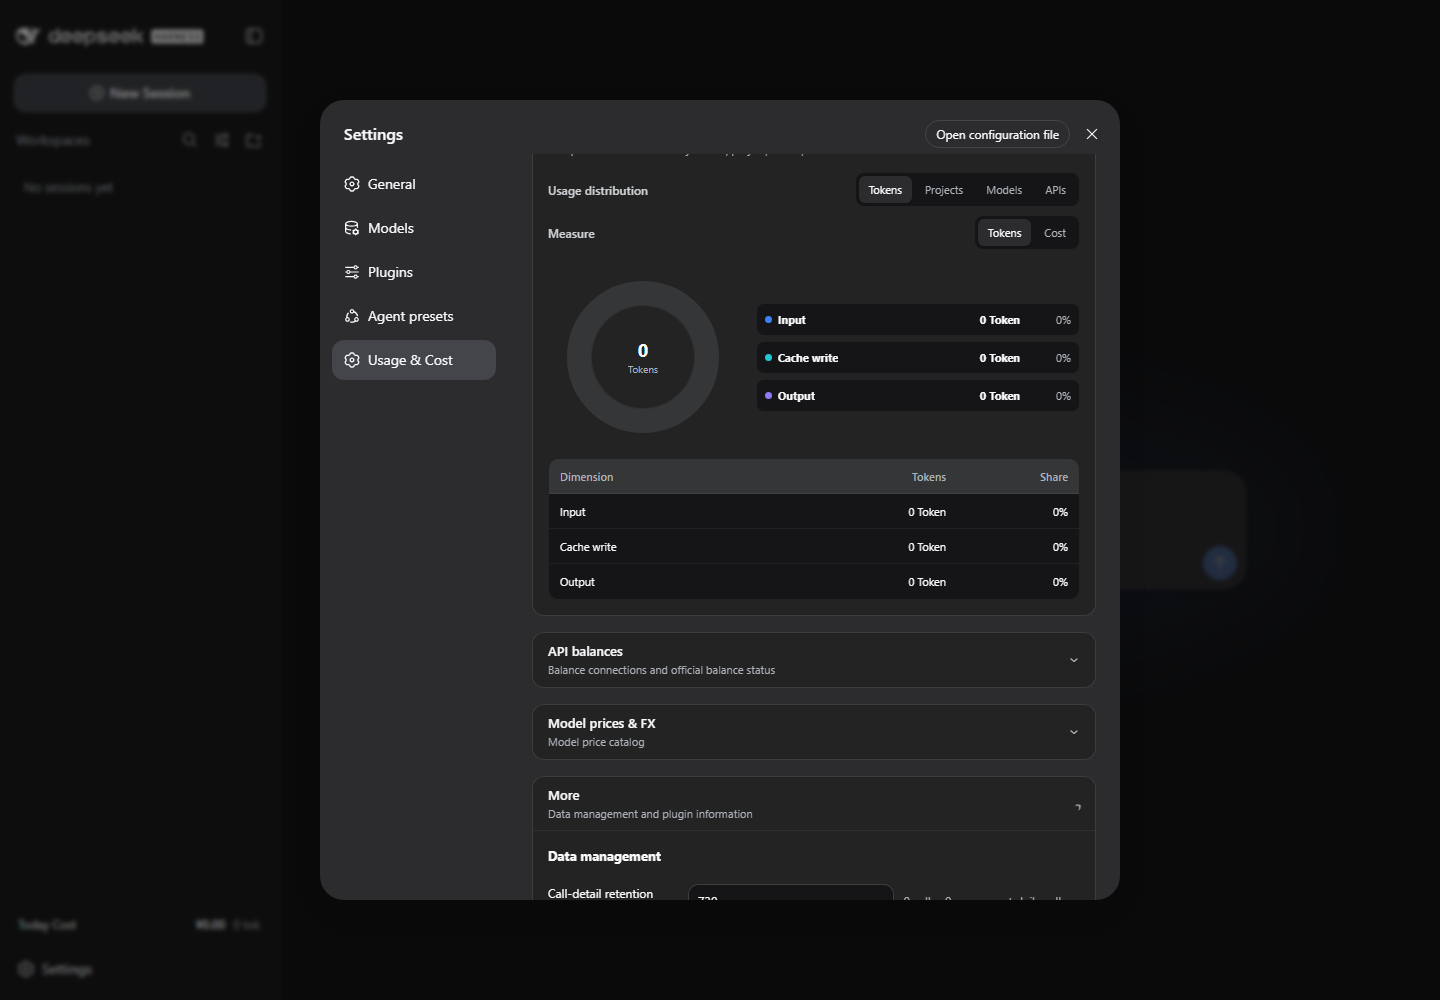
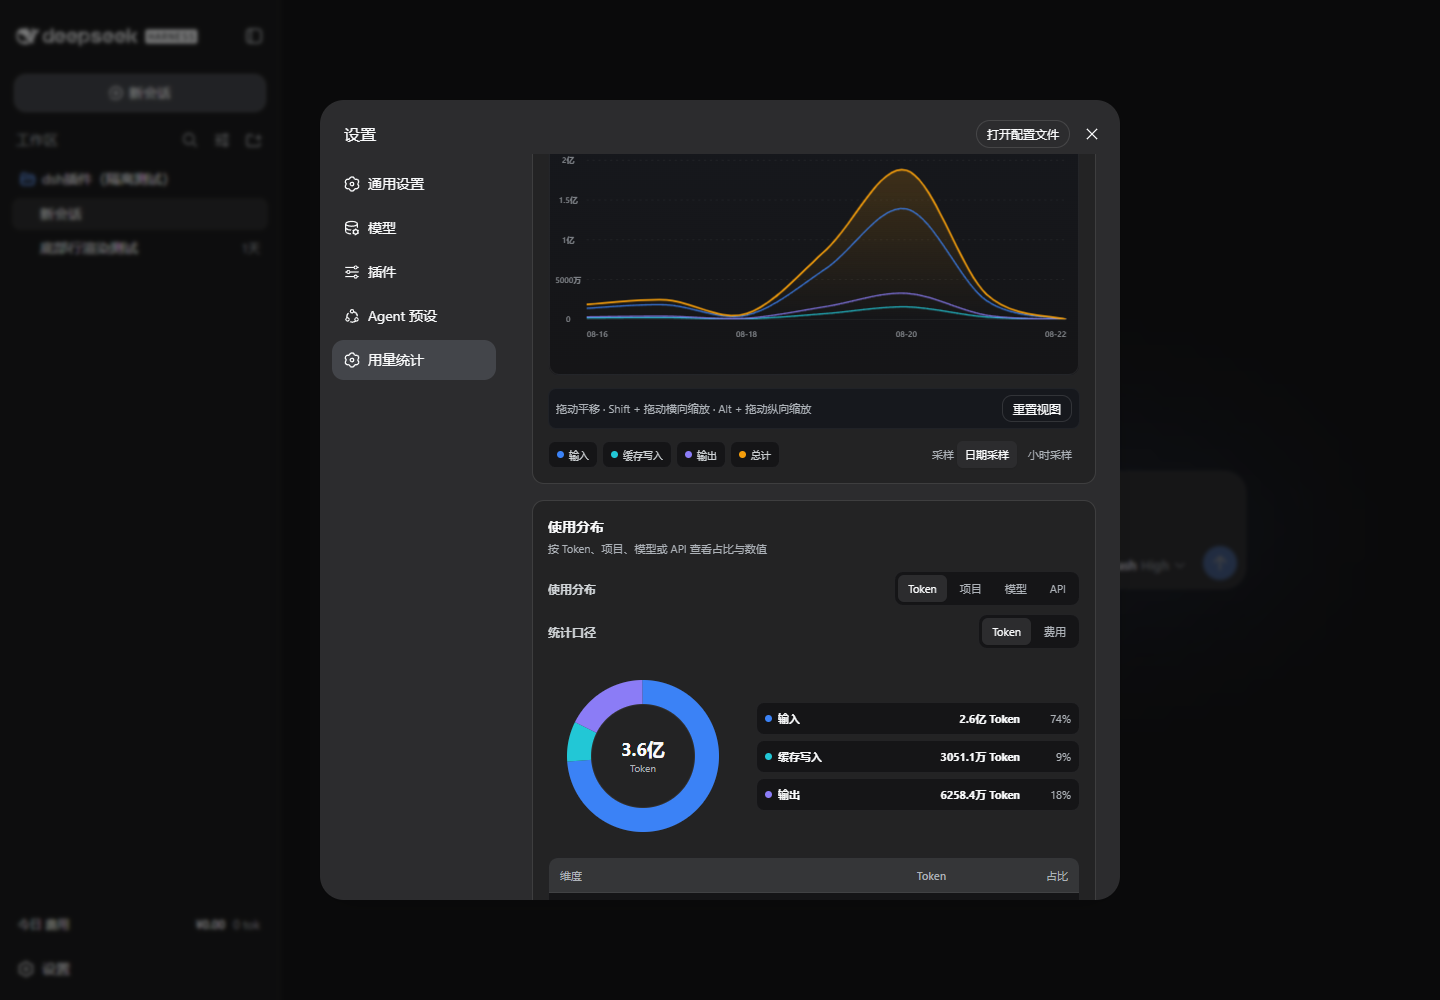
Make Chinese the primary project documentation

diff --git a/README.md b/README.md
@@ -1,52 +1,49 @@
-# DSH Usage Insights
+# DSH Usage Insights / 用量统计
+
+[English](README.en.md)
 
 [![CI](https://github.com/elviass/dsh-usage-insights/actions/workflows/ci.yml/badge.svg)](https://github.com/elviass/dsh-usage-insights/actions/workflows/ci.yml)
 [![CodeQL](https://github.com/elviass/dsh-usage-insights/actions/workflows/codeql.yml/badge.svg)](https://github.com/elviass/dsh-usage-insights/actions/workflows/codeql.yml)
 
-Auditable local usage, token, cache, balance, and pricing analytics for DeepSeek Harness.
+为 DeepSeek Harness 提供可审计的本地用量、Token、缓存、余额和价格统计。
 
-![Sanitized Usage & Cost view](https://raw.githubusercontent.com/elviass/dsh-usage-insights/v1.0.0/docs/images/usage-cost.png)
+![中文用量统计界面](docs/images/usage-cost.png)
 
-> This project is distributed only through GitHub Releases. The unscoped npm name
-> `dsh-usage-insights` belongs to another publisher. Do not install it from npm and
-> do not publish this repository to npm.
+> 本项目只通过 GitHub Releases 分发。npm 上未加 scope 的
+> `dsh-usage-insights` 属于另一位发布者，请勿从 npm 安装，也不要把本仓库发布到 npm。
 
-## Install
+## 安装
 
-1. Download `dsh-usage-insights-1.0.0.tgz` and `SHA256SUMS.txt` from the
-   [v1.0.0 release](https://github.com/elviass/dsh-usage-insights/releases/tag/v1.0.0).
-2. Verify the archive checksum.
-3. Install the local archive with the DSH plugin command for your profile:
+1. 从 [v1.0.0 Release](https://github.com/elviass/dsh-usage-insights/releases/tag/v1.0.0)
+   下载 `dsh-usage-insights-1.0.0.tgz` 和 `SHA256SUMS.txt`。
+2. 核对压缩包 SHA-256。
+3. 使用对应 DSH profile 安装本地压缩包：
 
    ```console
    dsh plugin --profile web add ./dsh-usage-insights-1.0.0.tgz
    ```
 
-The GitHub package specifier is intentionally not documented as a shortcut until
-it has passed the same two-version installation test as the release archive.
+在 GitHub specifier 通过同样的 DSH 双版本安装验证前，文档不会把它列为快捷安装方式。
 
-## Compatibility
+## 兼容范围
 
 - DeepSeek Harness `>=0.1.0-rc.7 <0.2.0`
 - Node.js `^22.19.0 || >=24.0.0`
-- Web client surface
+- Web 客户端
 
-The release candidate is tested against DSH `0.1.0-rc.7` and `0.1.1-rc.2` in
-independent temporary `DSH_HOME` directories.
+发布候选包已在独立临时 `DSH_HOME` 中分别验证 DSH `0.1.0-rc.7` 和
+`0.1.1-rc.2`，不会读取或修改正常的 `%USERPROFILE%\.dsh`。
 
-## What it records
+## 数据与隐私
 
-The plugin records numeric usage metadata, provider/model identifiers, timestamps,
-session/workspace grouping, price-source metadata, and optional balance snapshots.
-It does not store prompts, responses, or raw API keys. Credential statistics only
-accept explicit credential references (`credentialRef`, `apiKeyRef`, or
-`apiKeyEnv`).
+插件保存数值用量、API 提供商/模型标识、时间、会话/工作区分组、价格来源元数据，
+以及可选的余额快照；不保存提示词、回复正文或原始 API Key。凭据统计只接受明确的
+引用字段：`credentialRef`、`apiKeyRef`、`apiKeyEnv`。
 
-Network price synchronization is limited to the provider documentation hosts listed
-in `package.json`. The OpenRouter catalogue URL is fixed to the official HTTPS API;
-configuration cannot turn it into an arbitrary request target.
+联网价格同步只访问 `package.json` 中声明的官方文档主机。OpenRouter 目录地址固定为
+官方 HTTPS API，配置字段不能把它改成任意 URL 请求入口。
 
-## Development
+## 开发与检查
 
 ```console
 pnpm install --frozen-lockfile
@@ -59,25 +56,23 @@ pnpm run release:build
 pnpm run release:verify
 ```
 
-`test:live` contacts public price/documentation endpoints and reports each source
-separately. Balance adapters use fixtures in automated tests; they do not require or
-read a personal account.
+`test:live` 会访问公开价格/文档端点，并逐个报告来源状态。自动化余额测试只使用
+fixture/mock，不读取个人账号。
 
-The sibling `dsh-sandbox` directory, old release archives, databases, credentials,
-and machine-local screenshots are maintainer-only data and are not part of this
-repository or release package.
+相邻的 `dsh-sandbox`、旧 tgz、数据库、凭据文件和本机原始截图属于维护者本地数据，
+不会进入本仓库或发布包。
 
-## Release policy
+## 发布策略
 
-Tags matching `v*` build GitHub Release assets: the `.tgz`, `SHA256SUMS.txt`, an SPDX
-SBOM, and release notes. There is no npm-publish job. See
-[RELEASE_CHECKLIST.md](RELEASE_CHECKLIST.md) and [CONTRIBUTING.md](CONTRIBUTING.md).
+`v*` 标签工作流只生成 GitHub Release 资产：`.tgz`、`SHA256SUMS.txt`、SPDX SBOM
+和 release notes；没有 npm 发布任务。发布前请执行
+[RELEASE_CHECKLIST.md](RELEASE_CHECKLIST.md)，贡献规范见
+[CONTRIBUTING.md](CONTRIBUTING.md)。
 
-## Security
+## 安全问题
 
-Please use GitHub private vulnerability reporting rather than opening a public
-security issue. See [SECURITY.md](SECURITY.md).
+请使用 GitHub 私密漏洞报告，不要公开提交安全 Issue。详见 [SECURITY.md](SECURITY.md)。
 
-## License
+## 许可证
 
 MIT © 2026 elviass

diff --git a/README.en.md b/README.en.md
@@ -1,0 +1,85 @@
+# DSH Usage Insights
+
+[简体中文](README.md)
+
+[![CI](https://github.com/elviass/dsh-usage-insights/actions/workflows/ci.yml/badge.svg)](https://github.com/elviass/dsh-usage-insights/actions/workflows/ci.yml)
+[![CodeQL](https://github.com/elviass/dsh-usage-insights/actions/workflows/codeql.yml/badge.svg)](https://github.com/elviass/dsh-usage-insights/actions/workflows/codeql.yml)
+
+Auditable local usage, token, cache, balance, and pricing analytics for DeepSeek Harness.
+
+![Usage analytics in the Chinese interface](docs/images/usage-cost.png)
+
+> This project is distributed only through GitHub Releases. The unscoped npm name
+> `dsh-usage-insights` belongs to another publisher. Do not install it from npm and
+> do not publish this repository to npm.
+
+## Install
+
+1. Download `dsh-usage-insights-1.0.0.tgz` and `SHA256SUMS.txt` from the
+   [v1.0.0 release](https://github.com/elviass/dsh-usage-insights/releases/tag/v1.0.0).
+2. Verify the archive checksum.
+3. Install the local archive with the DSH plugin command for your profile:
+
+   ```console
+   dsh plugin --profile web add ./dsh-usage-insights-1.0.0.tgz
+   ```
+
+The GitHub package specifier is intentionally not documented as a shortcut until
+it has passed the same two-version installation test as the release archive.
+
+## Compatibility
+
+- DeepSeek Harness `>=0.1.0-rc.7 <0.2.0`
+- Node.js `^22.19.0 || >=24.0.0`
+- Web client surface
+
+The release candidate is tested against DSH `0.1.0-rc.7` and `0.1.1-rc.2` in
+independent temporary `DSH_HOME` directories.
+
+## What it records
+
+The plugin records numeric usage metadata, provider/model identifiers, timestamps,
+session/workspace grouping, price-source metadata, and optional balance snapshots.
+It does not store prompts, responses, or raw API keys. Credential statistics only
+accept explicit credential references (`credentialRef`, `apiKeyRef`, or
+`apiKeyEnv`).
+
+Network price synchronization is limited to the provider documentation hosts listed
+in `package.json`. The OpenRouter catalogue URL is fixed to the official HTTPS API;
+configuration cannot turn it into an arbitrary request target.
+
+## Development
+
+```console
+pnpm install --frozen-lockfile
+pnpm check
+pnpm test
+pnpm test:coverage
+pnpm test:live
+pnpm audit
+pnpm run release:build
+pnpm run release:verify
+```
+
+`test:live` contacts public price/documentation endpoints and reports each source
+separately. Balance adapters use fixtures in automated tests; they do not require or
+read a personal account.
+
+The sibling `dsh-sandbox` directory, old release archives, databases, credentials,
+and machine-local screenshots are maintainer-only data and are not part of this
+repository or release package.
+
+## Release policy
+
+Tags matching `v*` build GitHub Release assets: the `.tgz`, `SHA256SUMS.txt`, an SPDX
+SBOM, and release notes. There is no npm-publish job. See
+[RELEASE_CHECKLIST.md](RELEASE_CHECKLIST.md) and [CONTRIBUTING.md](CONTRIBUTING.md).
+
+## Security
+
+Please use GitHub private vulnerability reporting rather than opening a public
+security issue. See [SECURITY.md](SECURITY.md).
+
+## License
+
+MIT © 2026 elviass

diff --git a/README.zh.md b/README.zh.md
@@ -5,7 +5,7 @@
 
 为 DeepSeek Harness 提供可审计的本地用量、Token、缓存、余额和价格统计。
 
-![无用户数据的用量统计界面](https://raw.githubusercontent.com/elviass/dsh-usage-insights/v1.0.0/docs/images/usage-cost.png)
+![中文用量统计界面](docs/images/usage-cost.png)
 
 > 本项目只通过 GitHub Releases 分发。npm 上未加 scope 的
 > `dsh-usage-insights` 属于另一位发布者，请勿从 npm 安装，也不要把本仓库发布到 npm。
